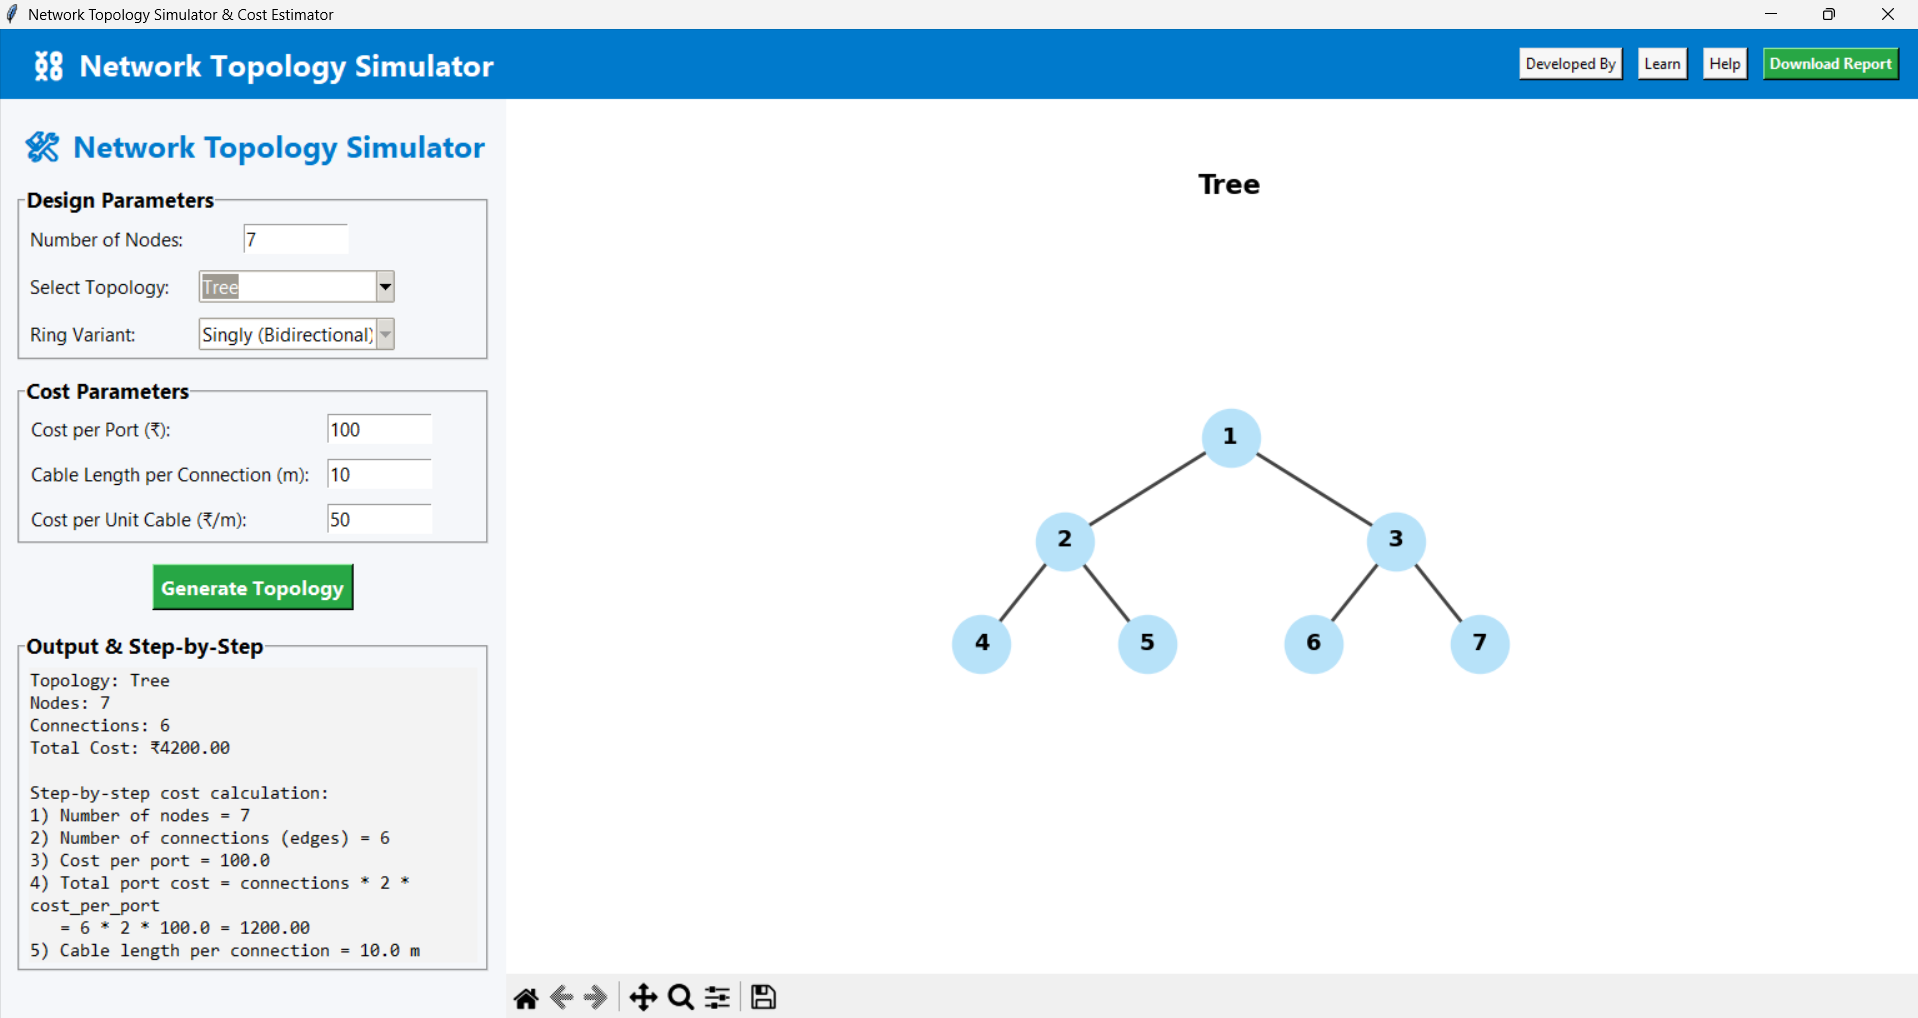
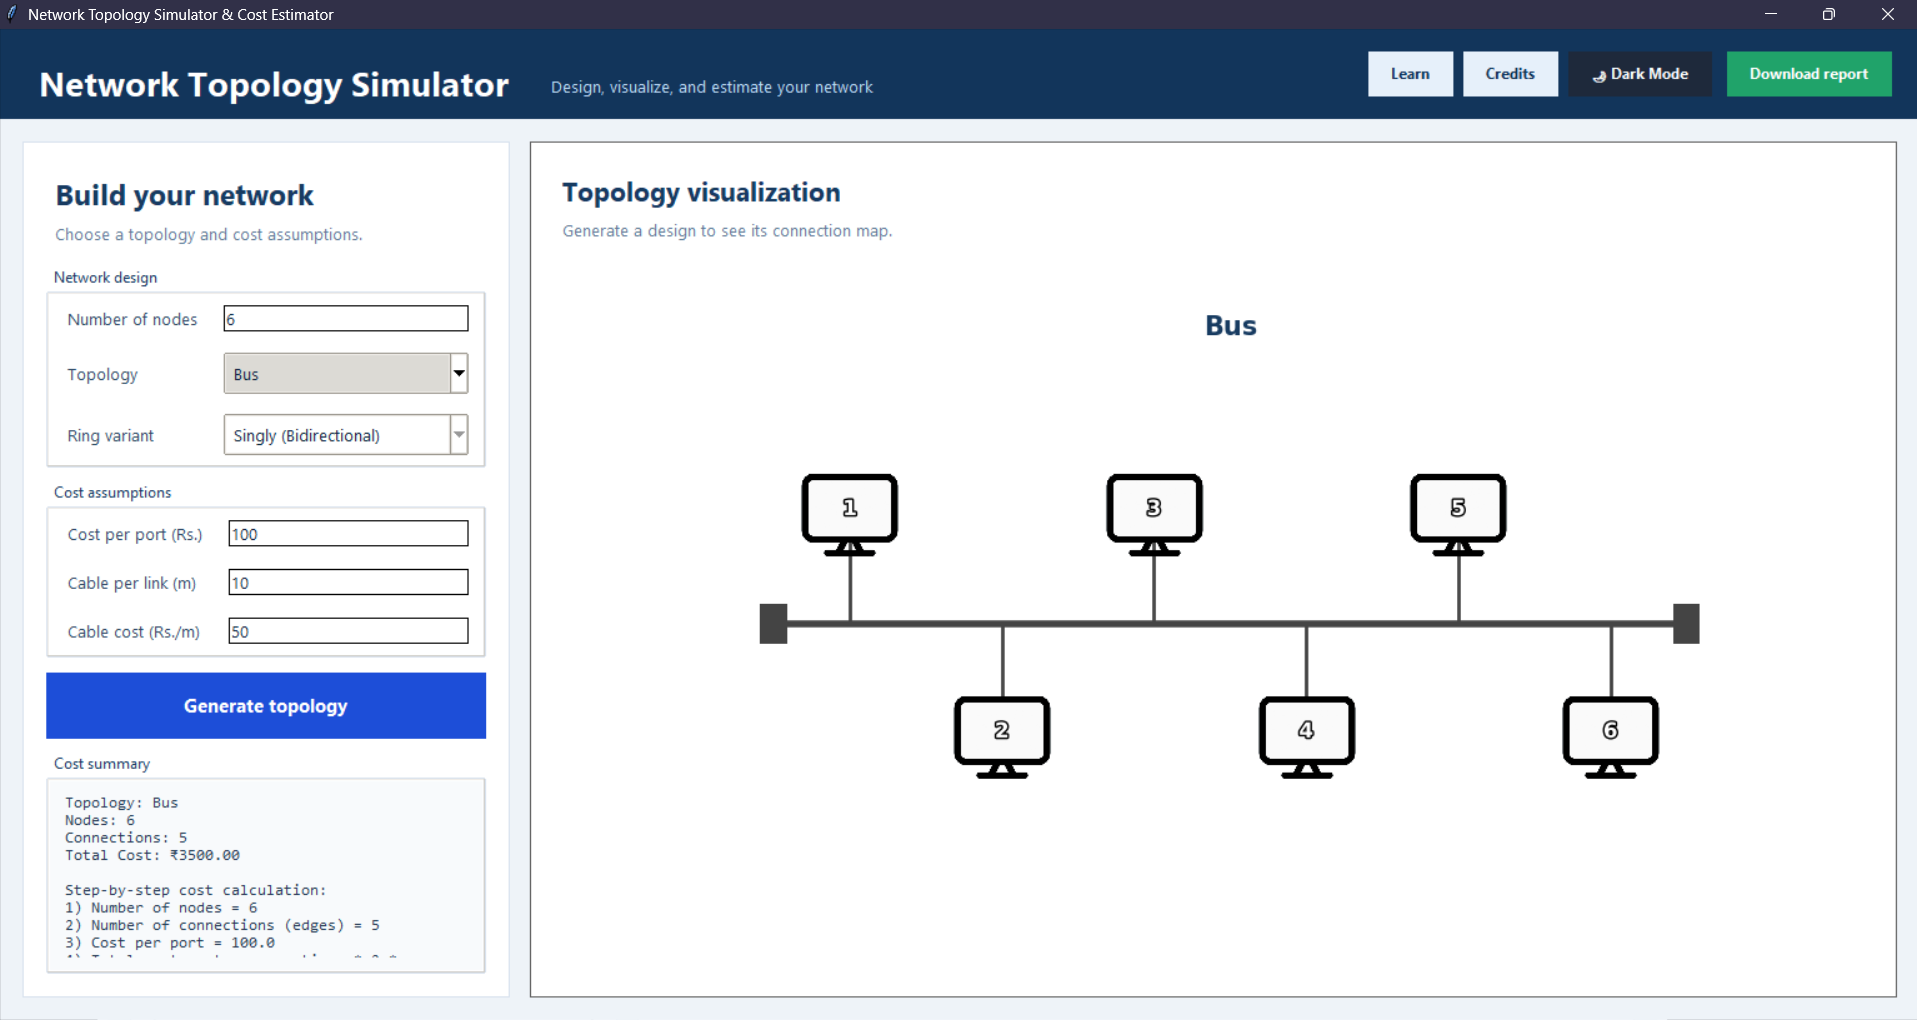
Add files via upload

diff --git a/README.md b/README.md
@@ -1,134 +1,146 @@
-# 🖥️ Network Topology Simulator & Cost Estimator  
+# 🖥️ Network Topology Simulator & Cost Estimator
 
-### 📚 Project Overview  
+### 📚 Project Overview
+
 This Python-based **Network Topology Simulator** allows users to design and analyze various **network topologies** such as Bus, Star, Ring, Mesh, and Tree.  
-It provides an **interactive GUI** built with Tkinter to visualize each topology, calculate the **total network cost**, and generate a **detailed report** including all parameters and results.
+It provides an **interactive Tkinter GUI** to visualize each topology, calculate the **total network cost**, switch seamlessly between **Light and Dark themes**, and generate a **detailed report (Word DOCX)** including all parameters and diagram results.
 
 ---
 
-### ⚙️ Features  
+### ⚙️ Features
+
 ✅ Generate and visualize topologies: **Bus, Star, Ring (3 variants), Mesh, Tree**  
-✅ Automatic cost calculation (port + cable cost)  
+✅ Automatic cost calculation (port cost + cable cost)  
 ✅ Step-by-step breakdown of total cost  
-✅ Interactive graph view (zoom, pan, save)  
-✅ Built-in **Learning Mode** – theory + video reference  
-✅ “Developed By” credits section with images  
-✅ Export detailed **Word report (DOCX)**  
-✅ Smooth and clean **Tkinter GUI**  
+✅ **Dynamic Light / Dark Mode Theme Toggle** 🌙☀️  
+✅ Interactive graph view (zoom, pan, save diagram)  
+✅ Built-in **Learning Mode** – theory + video references  
+✅ **Full-size Credits & Contributors Window** with profile cards  
+✅ Export detailed **Word report (DOCX)** with graph images embedded  
+✅ Smooth and responsive **Tkinter GUI**
 
 ---
 
-### 🧩 Tech Stack  
-- **Python 3.11+**  
-- **Tkinter** – GUI Framework  
-- **NetworkX** – Network graph creation  
-- **Matplotlib** – Visualization  
-- **Pillow (PIL)** – Image handling  
-- **python-docx** – Report generation  
-- **tkhtmlview** – Embedded content  
+### 🧩 Tech Stack
+
+- **Python 3.11+**
+- **Tkinter** – GUI Framework
+- **NetworkX** – Network graph creation
+- **Matplotlib** – Graph Visualization
+- **Pillow (PIL)** – Image & avatar handling
+- **python-docx** – Detailed report generation
 
 ---
 
-### 🖼️ Application Preview  
+### 🖼️ Application Preview
+
 ![Application Screenshot](./screenshot.png)
 
+---
+
+### 🧮 How It Works
+
+1. **Enter Inputs:**
+   - Number of nodes
+   - Select topology type
+   - (For Ring) choose variant
+   - Enter port cost, cable length, and cost per meter
+
+2. **Click “Generate Topology”**
+   - Visualizes your chosen topology
+   - Calculates total cost
+   - Displays step-by-step cost breakdown
+
+3. **Toggle Themes (Optional)**
+   - Click **🌙 Dark Mode** / **☀️ Light Mode** in the header bar to switch themes at any time
+
+4. **Click “Download Report”**
+   - Exports results and topology diagram to a formatted **Word document (.docx)**
 
 ---
 
-### 🧮 How It Works  
+### 📄 Report Generation
 
-1. **Enter Inputs:**  
-   - Number of nodes  
-   - Select topology type  
-   - (For Ring) choose variant  
-   - Enter port cost, cable length, and cost per meter  
-
-2. **Click “Generate Topology”**  
-   - Visualizes your chosen topology  
-   - Calculates total cost  
-   - Displays step-by-step cost breakdown  
-
-3. **Click “Download Report”**  
-   - Exports results to a formatted **Word document**  
-
----
-
-### 📄 Report Generation  
 Each report includes:
-- Input parameters  
-- Step-by-step cost calculations  
-- Topology diagram  
-- List of all connections  
-- Footer with project details  
+
+- Input parameters
+- Step-by-step cost calculations
+- High-resolution topology diagram
+- List of all node connections
+- Footer with project details
 
 ---
 
-### 🧑💻 Developed By  
-- **Abijith Thennarasu (24BCE1626)**  
-- **Dharmayu Jadwani**  
-- Guided by **Dr. Swaminathan Annadurai**
+### 🧑💻 Developed By
+
+- **Abijith Thennarasu (24BCE1626)** – Lead Developer
+- **Dharmayu Jadwani** – Project Contributor
+- Guided by **Dr. Swaminathan Annadurai** – Faculty Advisor
 
 ---
 
-### 🧠 Learning Mode  
+### 🧠 Learning Mode
+
 Learn the concepts of each topology right inside the app with a detailed theoretical explanation and direct access to an animated YouTube tutorial:  
 🎥 [Network Topology Explanation](https://www.youtube.com/watch?v=zbqrNg4C98U)
 
 ---
 
-### 🚀 How to Run  
+### 🚀 How to Run
 
-1. **Clone the repository**  
+1. **Navigate to the repository**
+
    ```bash
-   git clone https://github.com/<your-username>/Network-Topology-Simulator.git
    cd Network-Topology-Simulator
    ```
 
-2. **Install dependencies**  
+2. **Install dependencies**
+
    ```bash
    pip install -r requirements.txt
    ```
 
-3. **Run the application**  
+3. **Run the application**
    ```bash
    python network_topology_gui.py
    ```
 
 ---
 
-### 📦 Requirements  
-If you face missing module errors, install these manually:
+### 📦 Requirements
+
+If installing manually without `requirements.txt`:
+
 ```bash
-pip install networkx matplotlib pillow python-docx tkhtmlview
+pip install networkx matplotlib pillow python-docx numpy
 ```
 
 ---
 
-### 🧰 Folder Structure  
+### 🧰 Folder Structure
+
 ```
 Network-Topology-Simulator/
 │
 ├── network_topology_gui.py        # Main application code
-├── computer.png                   # Node icon
-├── professor.png                  # Professor image
-├── abijith.jpeg                   # Developer image
-├── dharmyu.jpeg                   # Developer image
+├── computer.png                   # Node icons
 ├── requirements.txt               # Dependencies
-├── screenshot.png                 # Application GUI image
-├── README.md                      # Project documentation
-└── report/                        # Sample Report
+├── screenshot.png                 # Application GUI preview image
+└── README.md                      # Project documentation
 ```
 
 ---
 
-### 🏆 Credits  
+### 🏆 Credits
+
 > Developed as part of **Computer Networks (DA Project)**  
 > **VIT Chennai**  
-> Faculty Guide: *Dr. Swaminathan Annadurai*  
+> Faculty Guide: _Dr. Swaminathan Annadurai_
 
 ---
 
-### 📬 Contact  
+### 📬 Contact
+
 **Abijith Thennarasu**  
 📧 [email redacted]  
-📍 VIT Chennai  
+📍 VIT Chennai